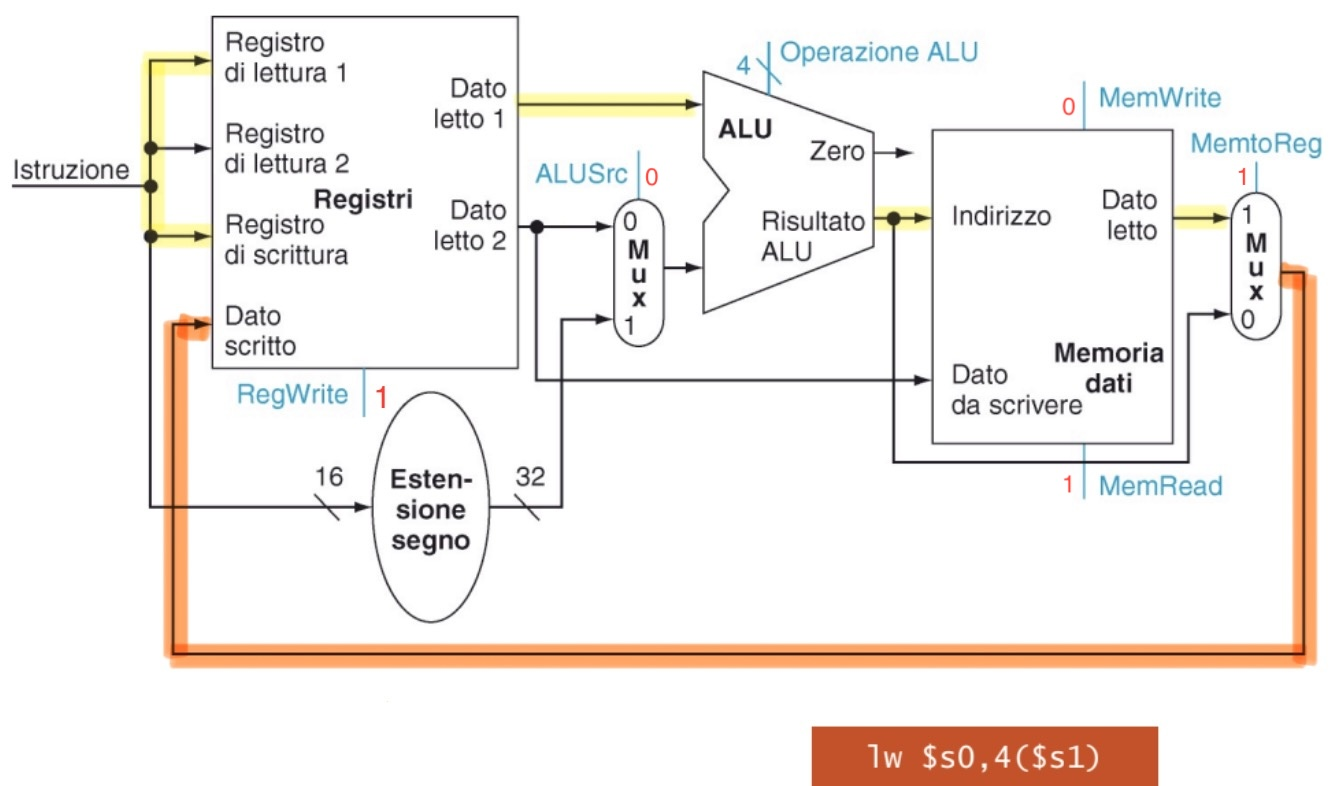
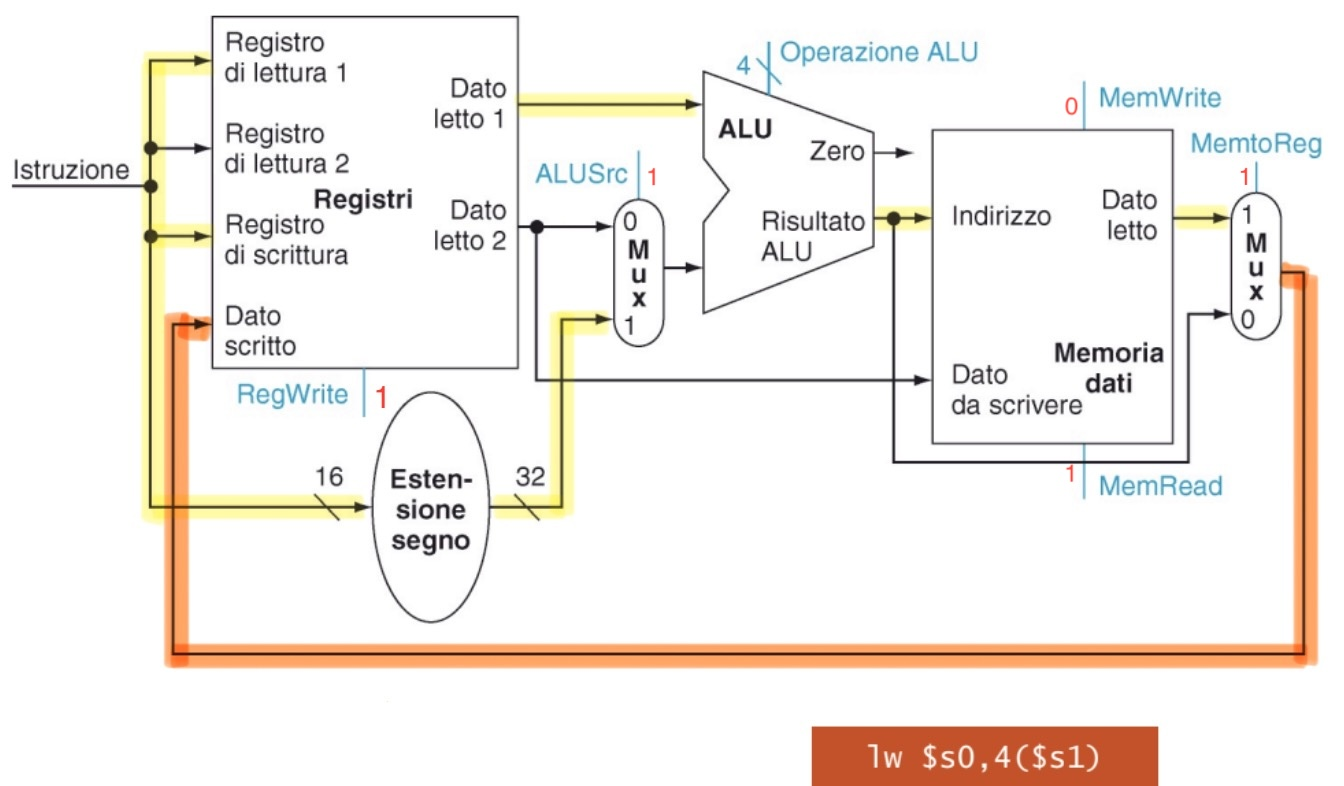
vault backup: 2024-04-16 12:40:37

diff --git a/Flet-notes/2024-04-16_AE.md b/Flet-notes/2024-04-16_AE.md
@@ -1,3 +1,5 @@
 ## Salti condizionati
 essendo ogni label di 16 bit viene estesa a 32 bit e poi moltiplicata per 4 (shift di 2) in modo tale da poter mettere più istruzioni dentro soli 16 bit
 
+> [!warning] sistemare ultimo disegno del circuito
+
